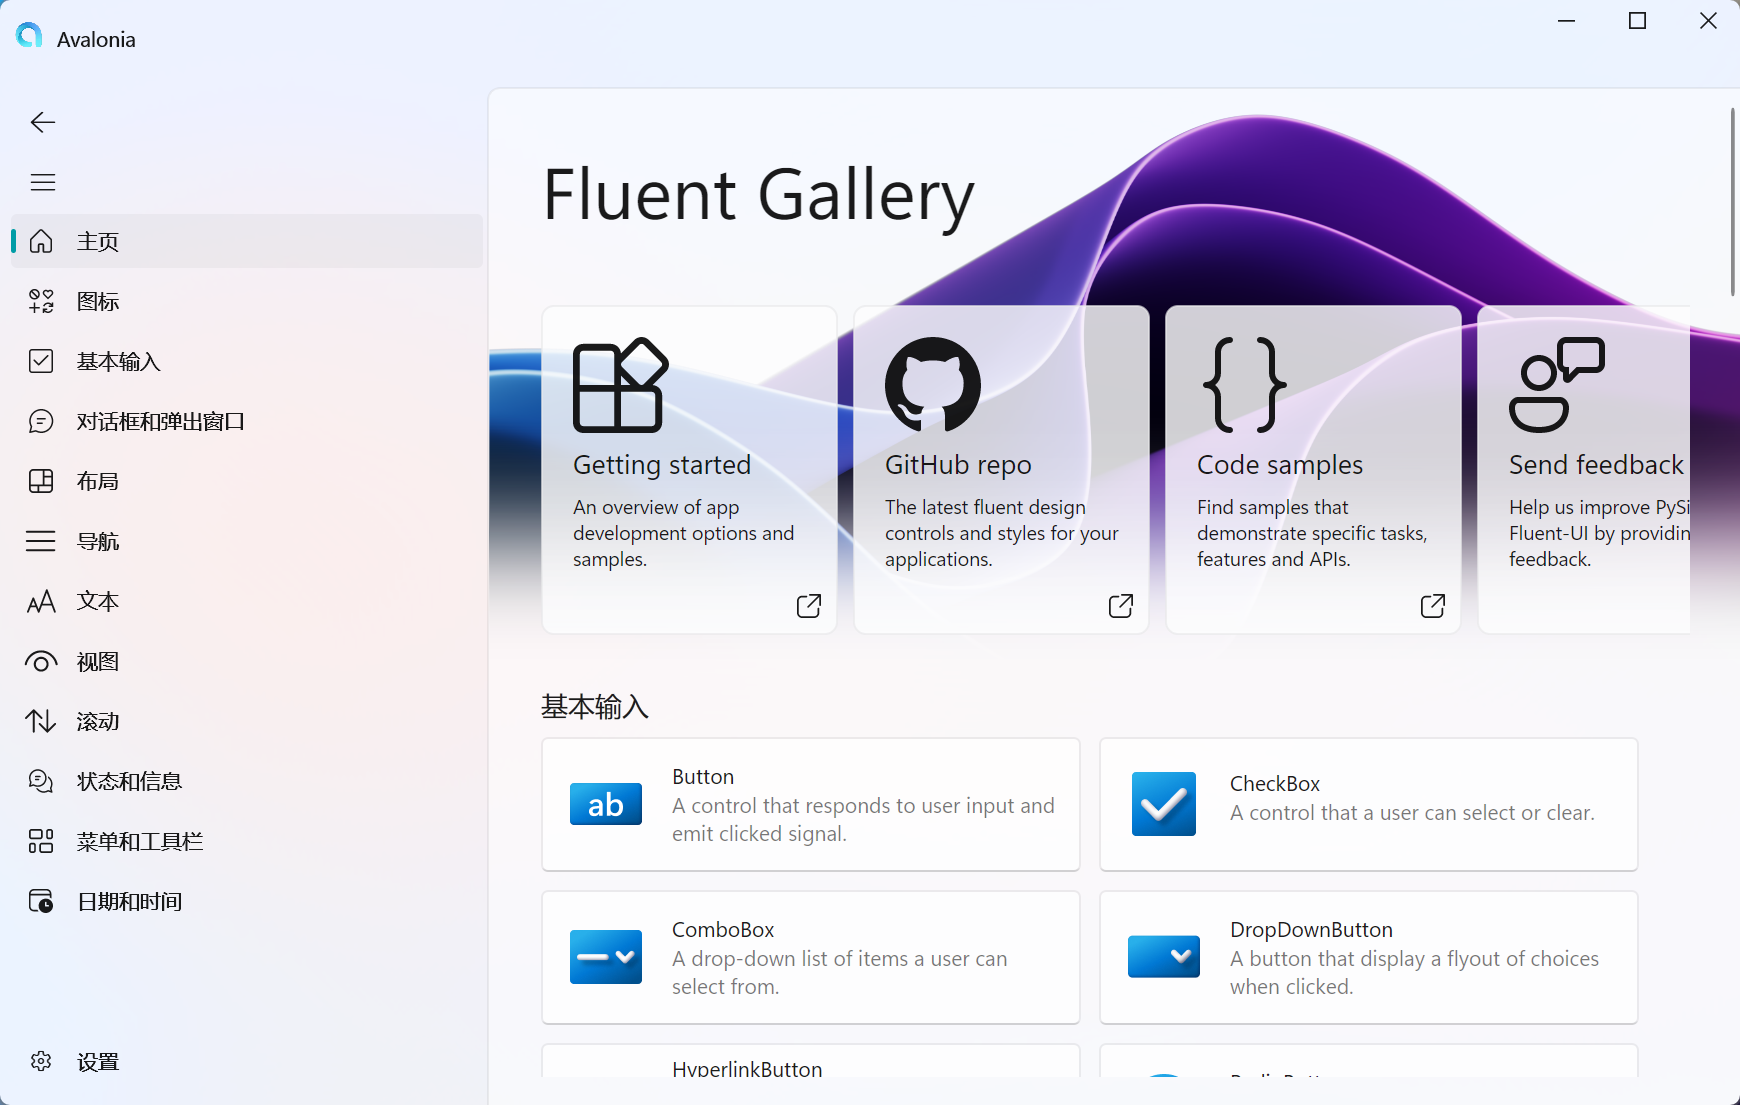
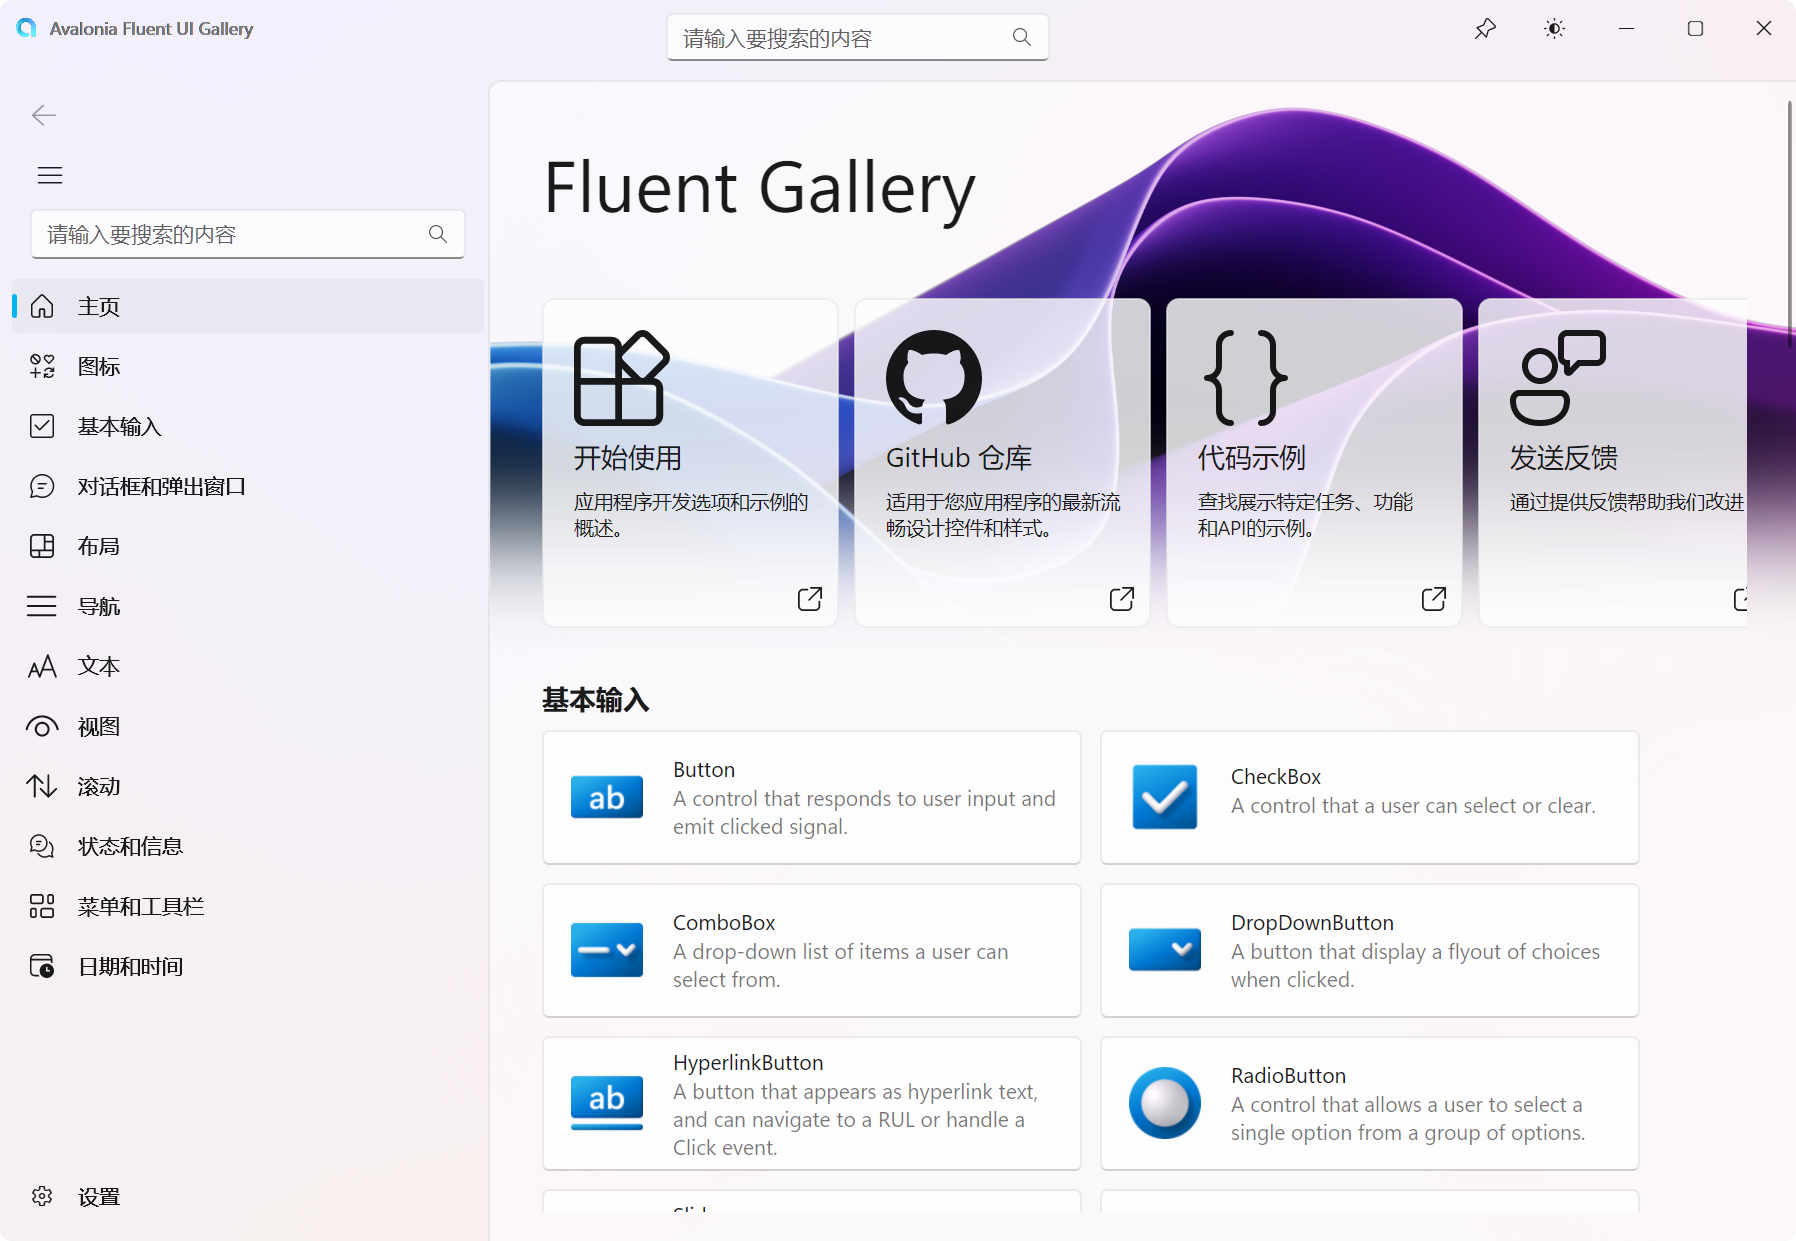
更新README文件

diff --git a/README.md b/README.md
@@ -18,8 +18,7 @@
 
 ## 安装🚀
 ```shell
-# nuget可能不为最新版本
-dotnet add package AvaloniaFluentUI
+dotnet add package AvaloniaFluentUI --version 1.0.3
 ```
 
 ## 运行示例▶️